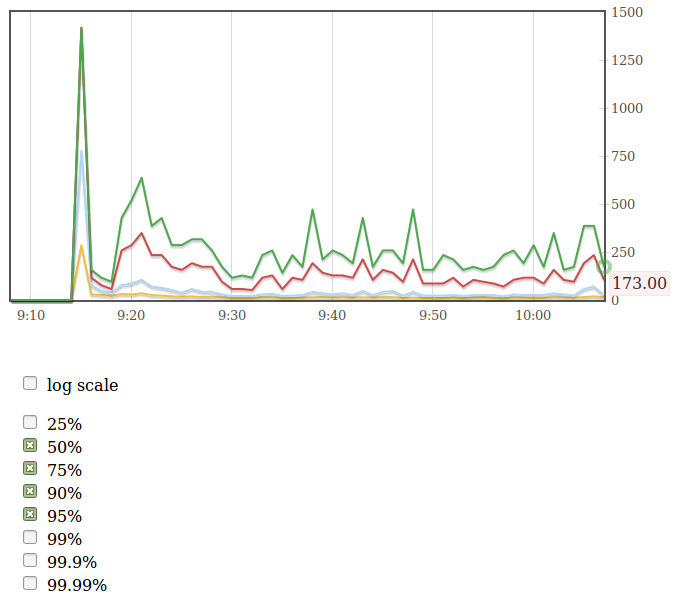
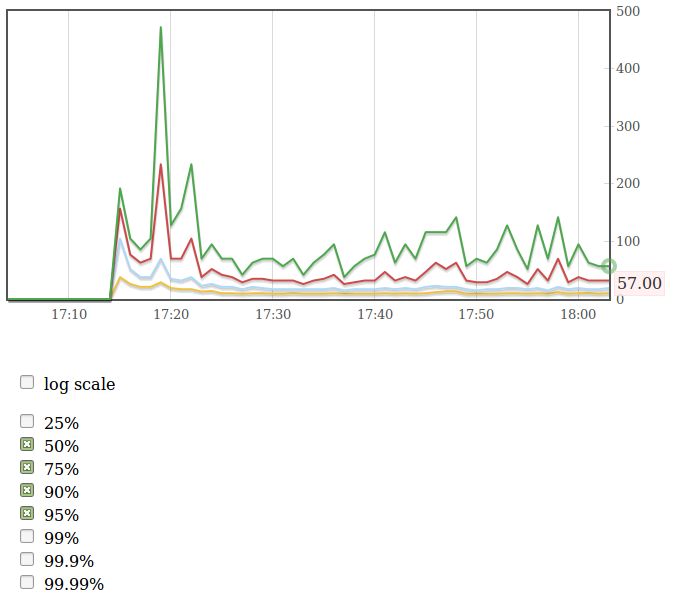
update benchmark guide

Changed region(s): [[0.0, 0.0, 0.9868, 0.5436], [0.0308, 0.604, 0.185, 0.9966]]

diff --git a/benchmark-guide.md b/benchmark-guide.md
@@ -97,36 +97,38 @@ You can view iago stats on its UI. A loadbalancer would have been created. The u
 http://<iago-ui-loadbalncer>:9994/graph/?g=metric:client/request_latency_ms
 {% endhighlight %}
 
-After some peaks at the start the 75% percentile settles down to below 100ms, 90% percentile to below 250ms, and the 95% to below 500ms.
+After some peaks at the start the 95% percentile settles down to around 100ms.
 
 ![loadtest 95% percentile](/img/ml10m-loadtest-1.png)
 
-Looking at the 99% percentile shows there are some outliers which would suggest further optimization and increased infrastructure size would be necessary to get this within acceptable limits.
+Looking at the 99% percentile shows there are some outliers which would suggest further optimization and increased infrastructure size would be necessary to further decrease these spikes.
 
 ![loadtest 99% percentile](/img/ml10m-loadtest-2.png)
+
+You can also view analytics on the Seldon Grafana dashboard which should be exposed as a LoadBalancer on AWS. You will need to find the hostname at which point you can go to the url:
+{% highlight bash %}
+http://<grafana-ui-loadbalancer>/dashboard/db/ml10m
+{% endhighlight %}
+
+An example display of the dashboard from during the loadtest is shown below:
+
+![Grafana ml10m dashboard](/img/ml10m-loadtest-3.png)
+
 
 ## Further Optimization
 For this benchmark item-similarity is mainly using the Mysql DB to get the similarities created from the Spark modelling job so further optimization should focus on Mysql read optimization and the front end servers cpu and memory. In general to get further decreases in latency and to handle higher loads the further optimizations shown below could be investigated:
  
+ * Provide dedicated Kubernetes nodes for key parts of the infrastructure to guarantee more consistent performance.
  * Increase AWS instance sizes to provide more CPU and memory.
  * Increase the number and memory settings for the Seldon API servers. 
    * The seldon-server docker image can be rebuilt with changed Apache Tomcat settings. The Tomcat settings are in ```seldon-server/docker/seldon-server/scripts/start-server.sh```. 
-   * The resource request for the server Pod can be changed in ```seldon-server/kubernetes/conf/Makefile```:
-{% highlight bash %}
-   SELDON_SERVER_RESOURCES="requests":{ "memory" : "3Gi" }
-{% endhighlight %}
+   * The resource request for the server Pod can be changed in ```seldon-server/kubernetes/conf/Makefile```: Change SELDON_SERVER_RESOURCES
  * Increase the Mysql memory and optimize Innodb settings.
    * The mysql docker container is in ```seldon-server/docker/mysql```. The my.cnf file can be modified and the image rebuilt for your own use case.
-   * The Kubernetes conf Makefile ```seldon-server/kubernetes/conf/Makefile``` has resource setting for mysql which can be increased, change:
-{% highlight bash %}
-   MYSQL_RESOURCES="requests":{ "memory" : "5Gi" }
-{% endhighlight %}
+   * The Kubernetes conf Makefile ```seldon-server/kubernetes/conf/Makefile``` has resource setting for mysql which can be increased, change: MYSQL_RESOURCES
  * Run Mysql on SSD disks.
  * Run Mysql with replication to spread database load over several read replicas.
- * Increase Memcache size and CPU. Change the memcache.json.in file in ```seldon-server/kubernetes/conf/``` and modify ```seldon-server/kubernetes/conf/Makefile``` by changing the resource request:
-{% highlight bash %}
-   MEMCACHE_RESOURCES="requests":{ "memory" : "550Mi" }
-{% endhighlight %}
+ * Increase Memcache size and CPU. Change the memcache.json.in file in ```seldon-server/kubernetes/conf/``` and modify ```seldon-server/kubernetes/conf/Makefile``` by change : MEMCACHE_RESOURCES
 
 
 
